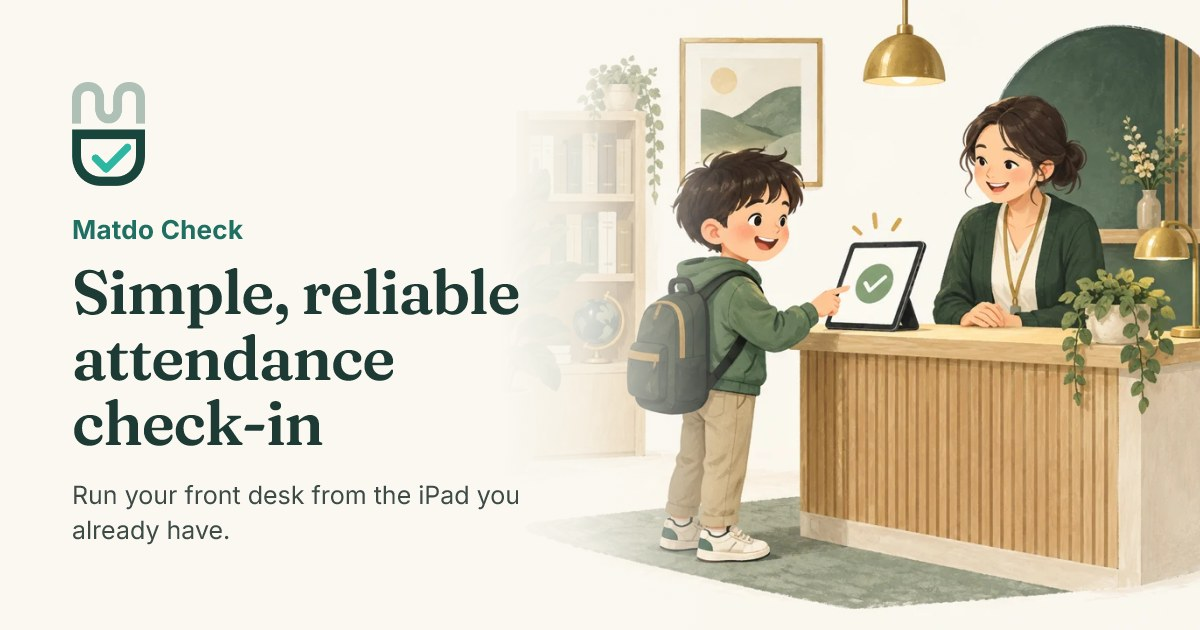
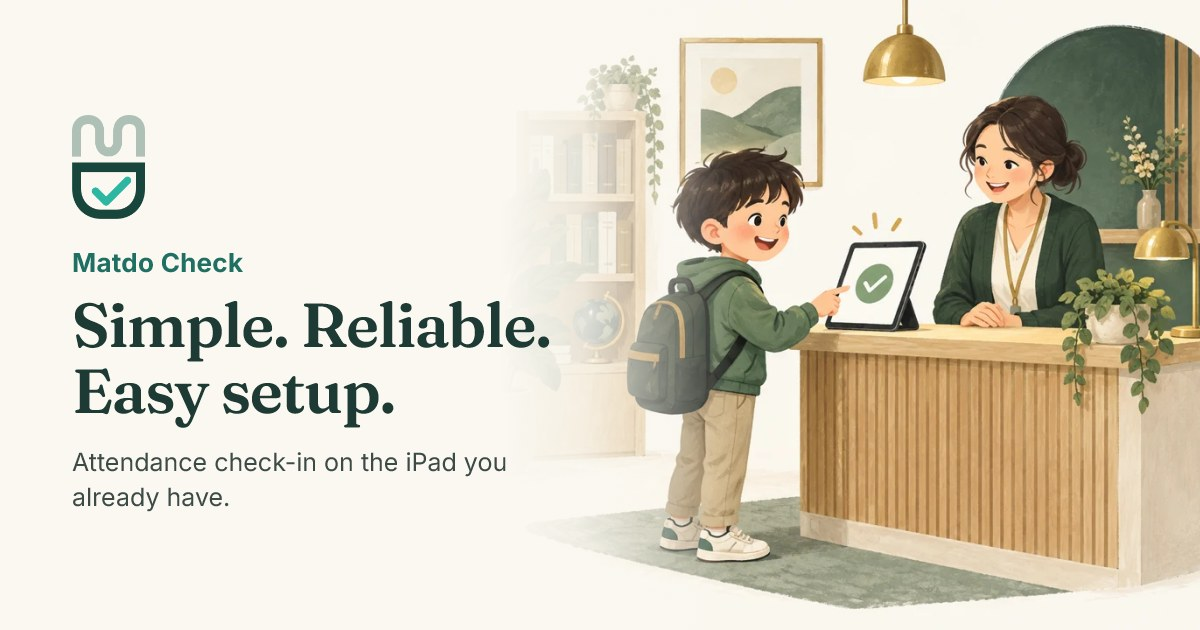
Give Matdo Check the Grade-style headline treatment
Use the tagline "Simple. Reliable. Easy setup." as the Check hero headline,
page title, and link-preview card headline. ProductHero's subtitle is now
optional so Check doesn't repeat the tagline under the description.

Changed region(s): [[0.0617, 0.1206, 0.4625, 0.8746]]

diff --git a/design/share-cards/card.html b/design/share-cards/card.html
@@ -49,8 +49,8 @@
       art: "../../public/demo/cartoons/check-in-illustration.webp",
       artPos: "58% 50%",
       name: "Matdo Check",
-      headline: "Simple, reliable attendance check-in",
-      sub: "Run your front desk from the iPad you already have.",
+      headline: "Simple. Reliable. Easy setup.",
+      sub: "Attendance check-in on the iPad you already have.",
     },
     site: {
       accent: "#1f6f63",
